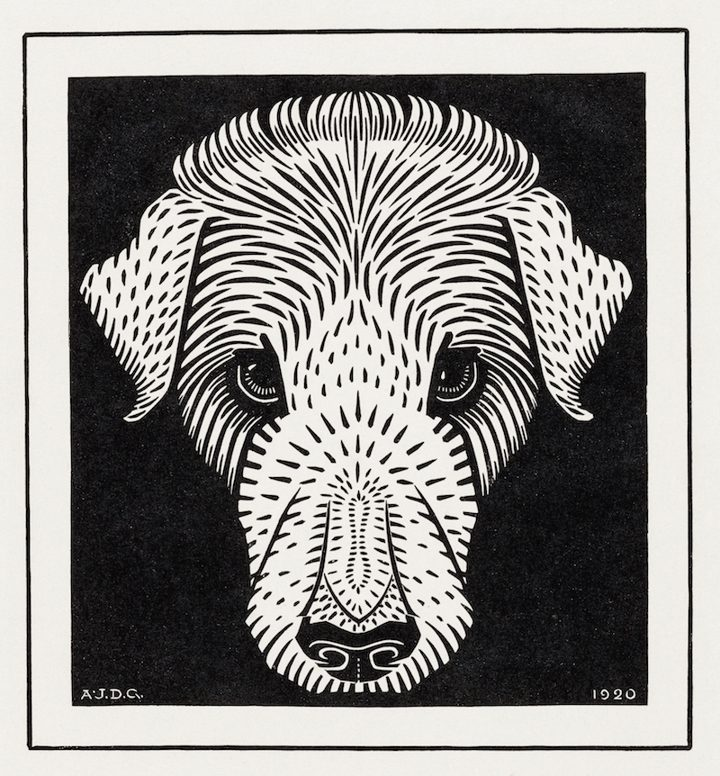
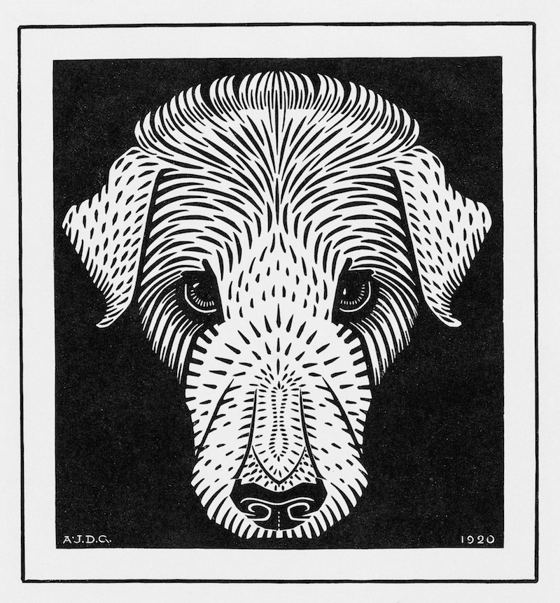
Allège les images de l'accueil (chien 73 Ko, couverture 61 Ko)
Claude-Session: https://claude.ai/code/session_01U4nZCg1jFjjspZDTGSPa7E

diff --git a/scripts/build_site.py b/scripts/build_site.py
@@ -521,8 +521,10 @@ def main() -> None:
     if OUT.exists():
         shutil.rmtree(OUT)
     OUT.mkdir()
+    lourds = set(cfg.get("images", {}))  # originaux rapatriés de l'ancien site, non utilisés tels quels
     for f in ASSETS.iterdir():
-        shutil.copy(f, OUT / f.name)
+        if f.name not in lourds:
+            shutil.copy(f, OUT / f.name)
     prefixe = os.environ.get("JDF_BASE", cfg.get("base", "")).rstrip("/")
     if os.environ.get("JDF_CIBLE") == "infomaniak":
         # hébergement Apache : page 404 maison, HTTPS forcé, cache raisonnable
@@ -593,7 +595,7 @@ def main() -> None:
         for c in list(reversed(retenues))[:3])
     bloc_livre = f"""<section class="livre" id="livre">
   <div class="livre-int">
-    <a class="couv" href="{html.escape(livre['lien'])}" rel="noopener"><img src="/{livre['image']}" alt="Couverture de Jours de Francis, I. {html.escape(livre['titre'])}" width="650" height="1122" loading="lazy"></a>
+    <a class="couv" href="{html.escape(livre['lien'])}" rel="noopener"><img src="/{livre['image']}" alt="Couverture de Jours de Francis, I. {html.escape(livre['titre'])}" width="480" height="829" loading="lazy" decoding="async"></a>
     <div class="livre-texte">
       <p class="etiquette">{html.escape(livre.get('etiquette', 'Le livre'))}</p>
       <h2>Jours de Francis<span>I. {html.escape(livre['titre'])}</span></h2>
@@ -610,7 +612,7 @@ def main() -> None:
 </section>""" if video else ""
     corps = f"""<section class="une">
   <div class="une-int">
-    <figure class="embleme"><img src="/{acc.get('image', 'chien-web.jpg')}" alt="Tête de chien, gravure sur bois" width="720" height="776"></figure>
+    <figure class="embleme"><img src="/{acc.get('image', 'chien-web.jpg')}" alt="Tête de chien, gravure sur bois" width="560" height="603" fetchpriority="high"></figure>
     <div class="une-texte">
       <h1>{html.escape(cfg['titre'])}</h1>
       <p class="accroche">{html.escape(cfg['accroche'])}</p>
